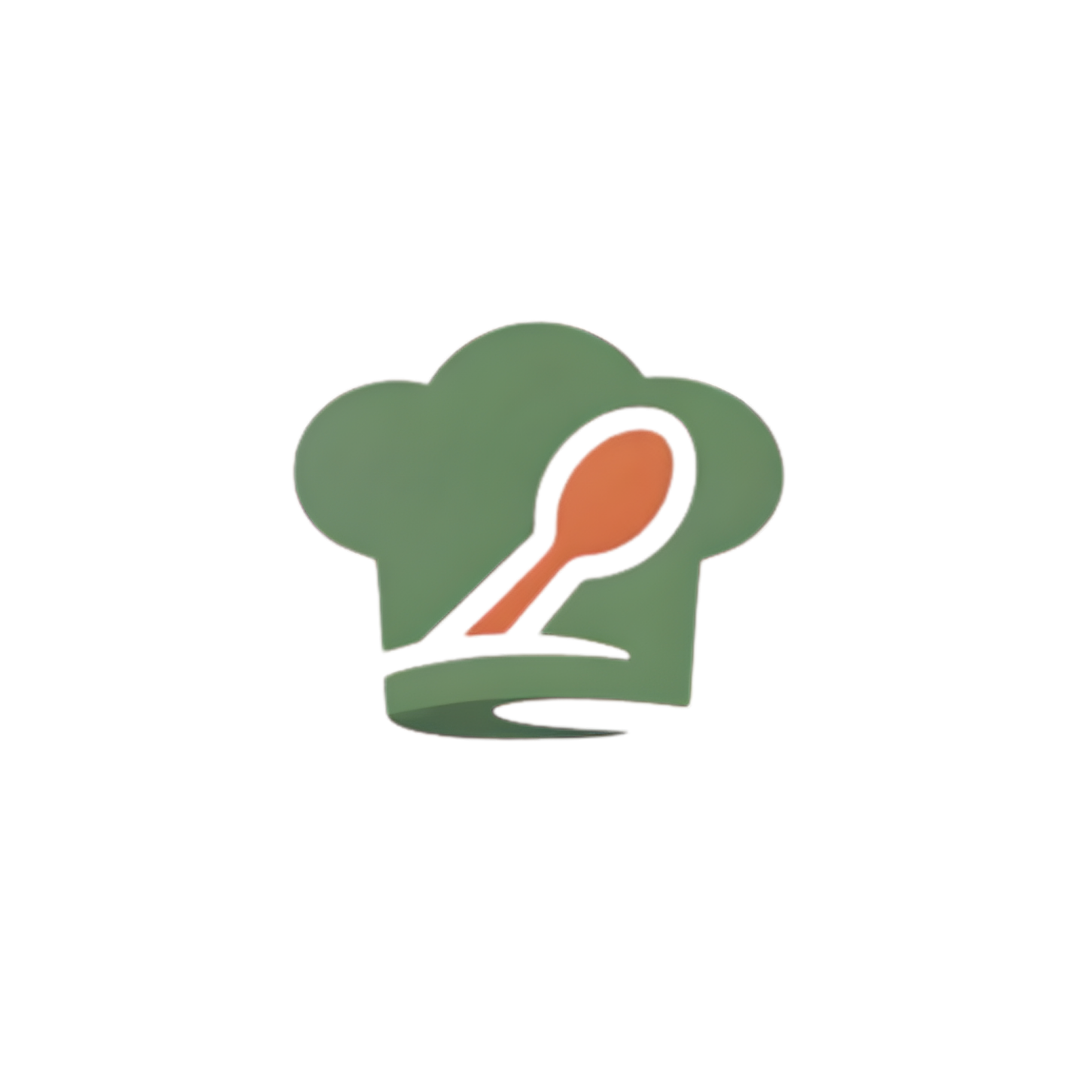
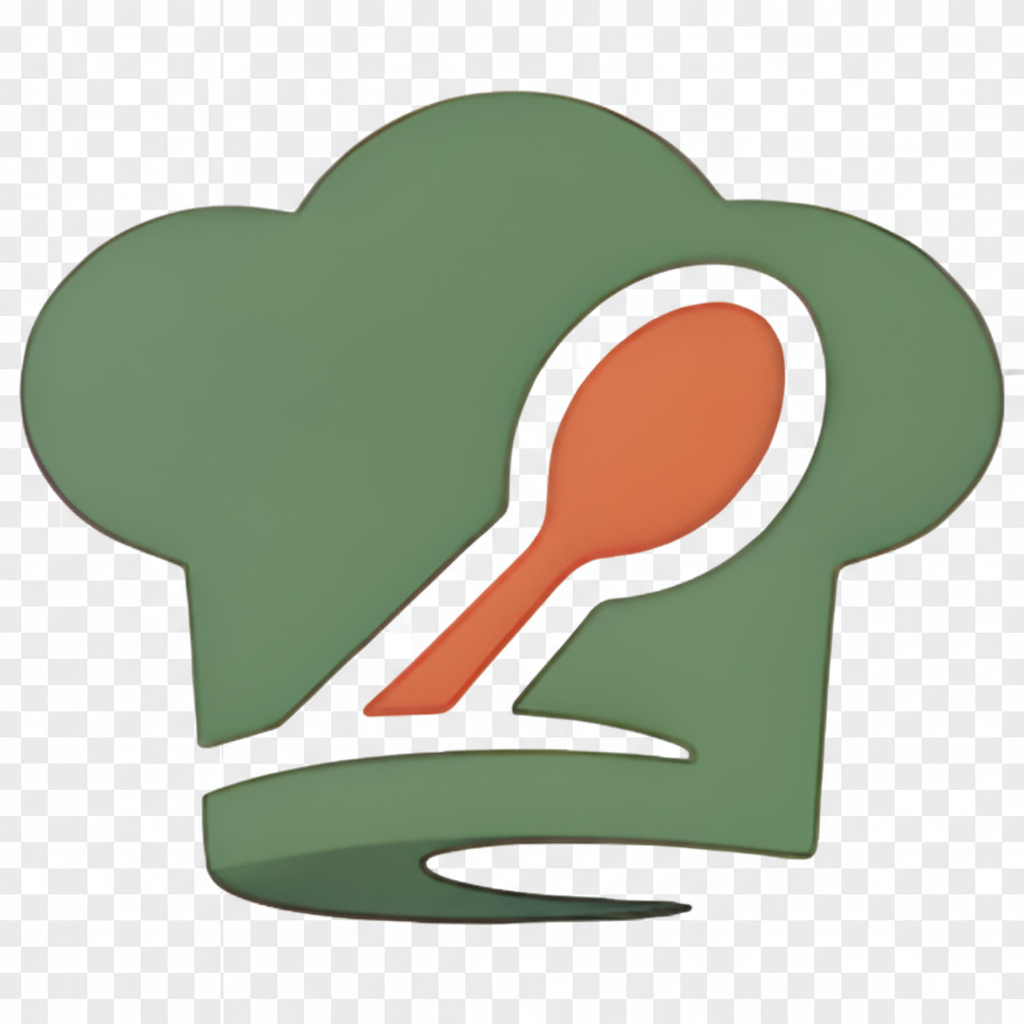
Changes

diff --git a/src/components/AppLogo.tsx b/src/components/AppLogo.tsx
@@ -6,11 +6,11 @@ interface AppLogoProps {
 }
 
 const sizeClasses = {
-  xs: "w-5 h-5",
-  sm: "w-6 h-6", 
-  md: "w-10 h-10",
-  lg: "w-12 h-12",
-  xl: "w-16 h-16",
+  xs: "w-6 h-6",
+  sm: "w-8 h-8", 
+  md: "w-12 h-12",
+  lg: "w-16 h-16",
+  xl: "w-20 h-20",
 };
 
 export function AppLogo({ size = "md", className }: AppLogoProps) {
